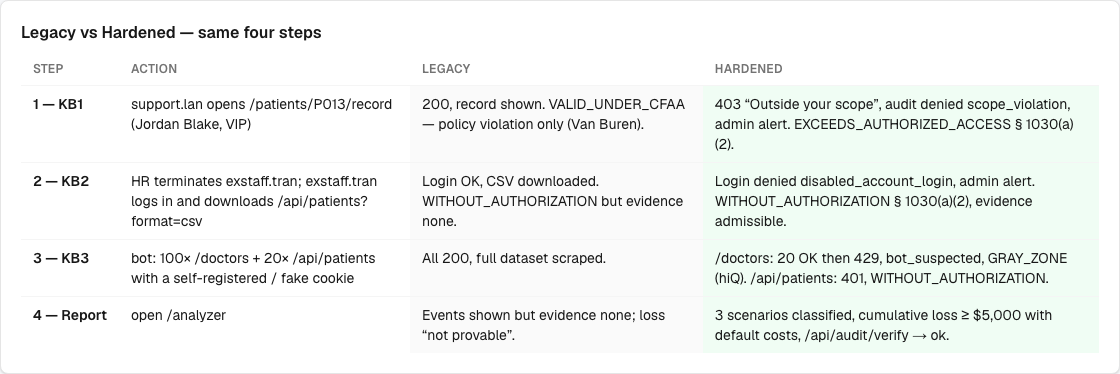
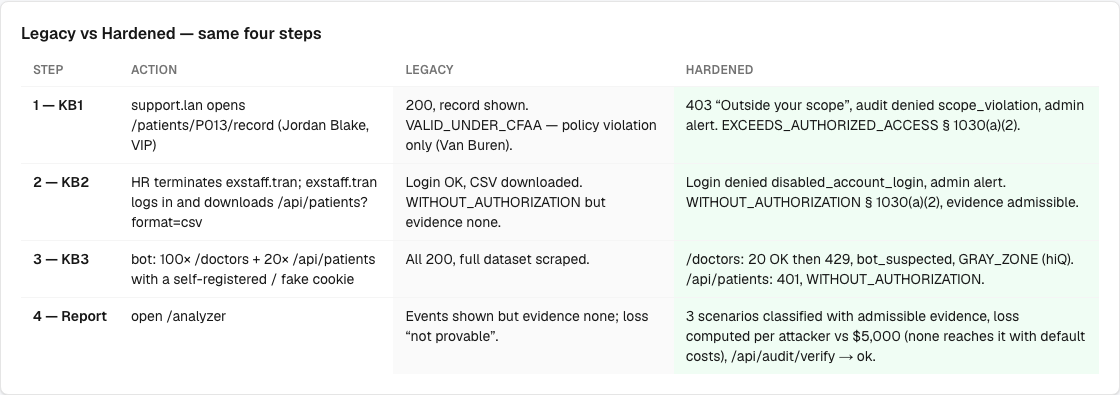
docs: retake Analyzer screenshots (per-attacker loss, IPs redacted) and record per-attacker figures

diff --git a/README.md b/README.md
@@ -3,6 +3,7 @@
 **Production:** https://medilink-cfaa-demo.vercel.app
 **Repo:** https://github.com/ntranthi/medilink-cfaa-demo
 **Video:** [`demo/medilink-cfaa-demo.mp4`](demo/medilink-cfaa-demo.mp4) — 3 min 27 s, 1080p H.264, recorded against production with `pnpm demo:record:prod`
+  The video predates the per-attacker loss change, so its Analyzer frames still show one combined total; the Analyzer screenshots below are current.
 
 > Fictional demo — no real PHI. MediLink Health Inc. does not exist. Scope is the Computer Fraud and Abuse Act,
 > 18 U.S.C. § 1030, only. HIPAA is **out of scope** and nothing here claims HIPAA compliance.
@@ -167,7 +168,15 @@ Model ([`lib/analyzer/loss.ts`](lib/analyzer/loss.ts)):
   *"not provable"*. "Exposed" records are patient rows actually returned to an actor without (sufficient)
   authorization — denied requests expose nothing.
 
-Hardened demo run with defaults: see the per-attacker table in `/analyzer` and `demo/screenshots/step-hardened-4.png`.
+Hardened demo run with defaults, measured on production; `/api/audit/verify` → `{"ok":true,"length":255}`:
+
+| Attacker | Scenario | Incidents | Loss | ≥ $5,000? |
+|----------|----------|-----------|------|-----------|
+| bot, `anonymous@IP` | KB3 | 3 | $2,900 | no |
+| `support.lan` | KB1 | 1 | $1,400 | no |
+| `exstaff.tran` | KB2 | 1 | $1,400 | no |
+
+All attackers combined: $5,100, shown for reference only. IP addresses are redacted in the screenshots.
 
 ## 9. Giới hạn của demo (Limitations)
 
